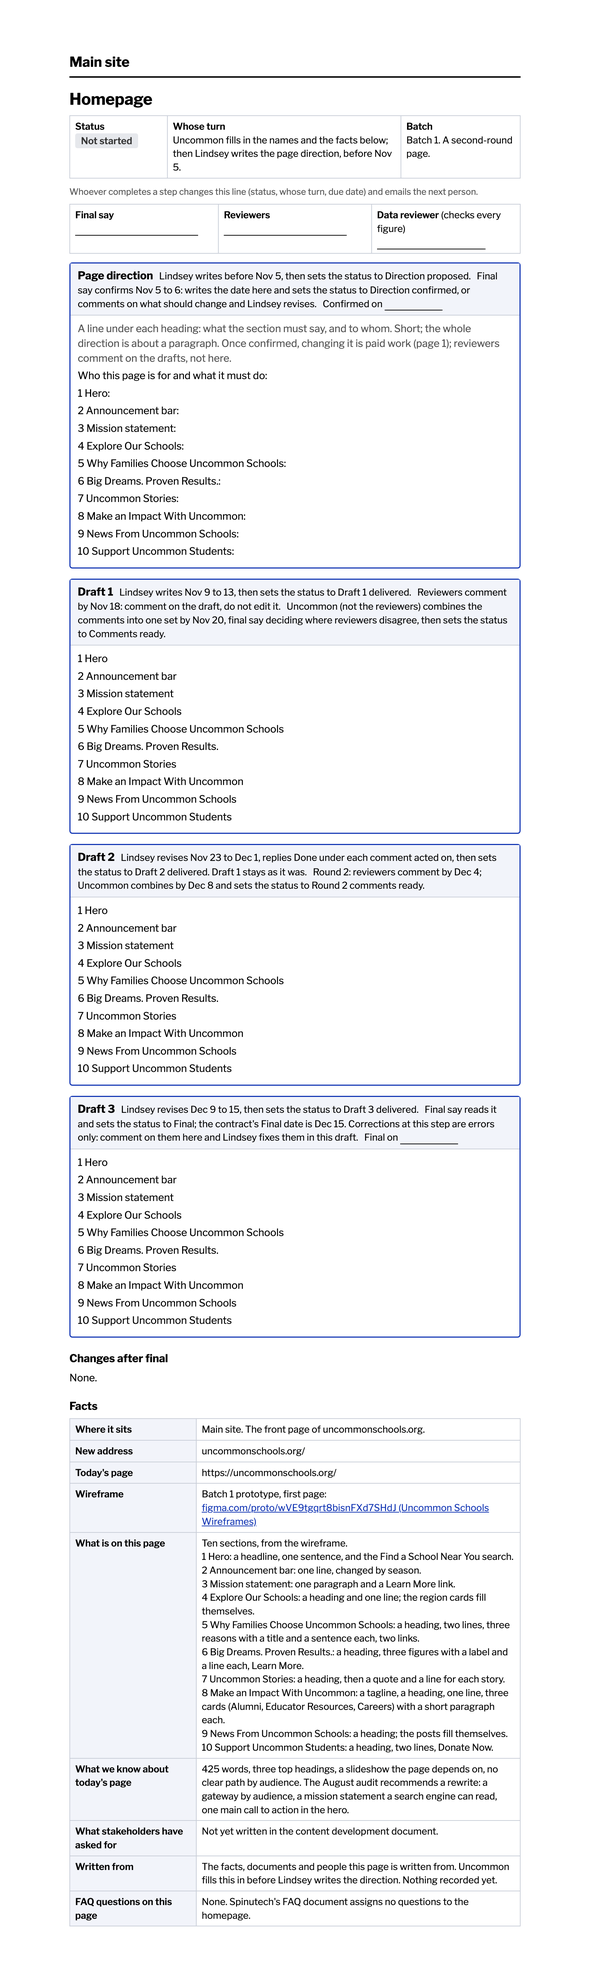
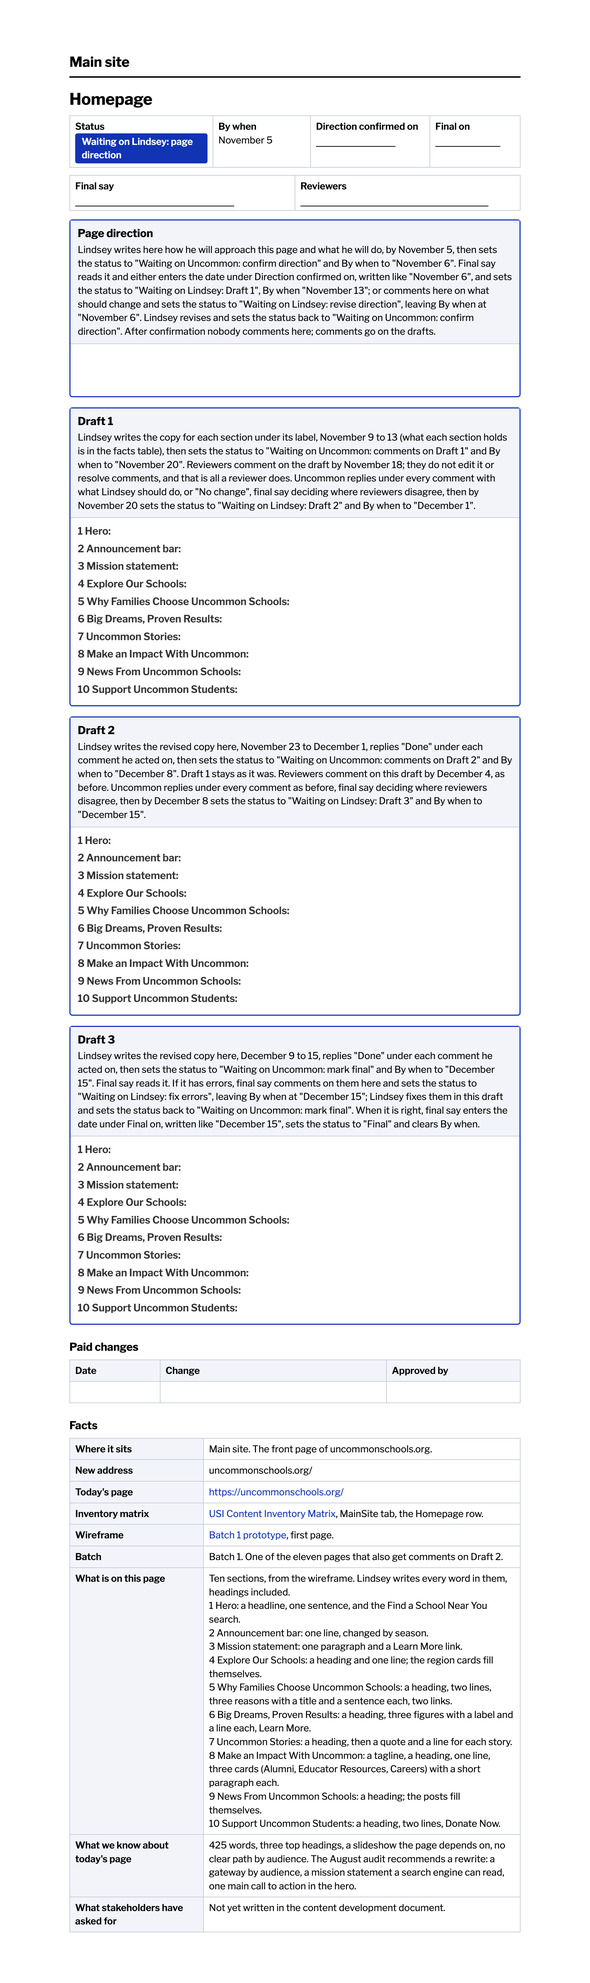
Content population v2: second-round design pictures after three reader walk-throughs

Changed region(s): [[0.125, 0.0622, 0.8438, 0.808], [0.3125, 0.7148, 0.8438, 0.9634], [0.125, 0.9013, 0.2812, 0.9634]]

diff --git a/website-redesign-2026/content-population-v2/design.html b/website-redesign-2026/content-population-v2/design.html
@@ -4,123 +4,119 @@
 @font-face{font-family:LF;src:url(/tmp/cpd/fonts/jizOREVItHgc8qDIbSTKq4XkRg8T88bjFuXOnduhHMWUBw.ttf);font-weight:500}
 @font-face{font-family:LF;src:url(/tmp/cpd/fonts/jizOREVItHgc8qDIbSTKq4XkRg8T88bjFuXOnduh8MKUBw.ttf);font-weight:600}
 @font-face{font-family:LF;src:url(/tmp/cpd/fonts/jizOREVItHgc8qDIbSTKq4XkRg8T88bjFuXOnduhycKUBw.ttf);font-weight:700}
-@font-face{font-family:LF;src:url(/tmp/cpd/fonts/jizMREVItHgc8qDIbSTKq4XkRiUawTk7f45UM9y05oZ8RNDM.ttf);font-weight:400;font-style:italic}
 body{margin:0;background:#fff;font-family:LF;font-size:14px;line-height:1.45;color:#000}
 .page{width:816px;box-sizing:border-box;padding:72px 96px;background:#fff}
 h1{font-size:22px;font-weight:700;margin:0 0 2px}
 .sub{color:#555;margin:0 0 18px}
 h2{font-size:17px;font-weight:700;margin:22px 0 6px}
-h3{font-size:15px;font-weight:700;margin:18px 0 6px}
+h3{font-size:15px;font-weight:700;margin:20px 0 6px}
 p{margin:0 0 8px}
 table{border-collapse:collapse;width:100%;margin:6px 0 10px;font-size:13px}
 td,th{border:1px solid #C9CED8;padding:5px 7px;vertical-align:top;text-align:left}
 th{background:#F2F4FA;font-weight:600}
-.facts td:first-child{width:160px;font-weight:600;background:#F2F4FA}
-.st{display:inline-block;padding:1px 8px;border-radius:3px;font-weight:600;white-space:nowrap}
+.facts td:first-child{width:170px;font-weight:600;background:#F2F4FA}
+.st{display:inline-block;padding:2px 9px;border-radius:3px;font-weight:600}
 .grey{background:#E6E8EC;color:#333}.blue{background:#1034B3;color:#fff}.yellow{background:#FBAE40;color:#000}.green{background:#2E7D32;color:#fff}
 .box{border:1.5px solid #1034B3;border-radius:4px;margin:12px 0 14px}
-.box .hd{background:#F2F4FA;border-bottom:1px solid #C9CED8;padding:6px 10px;font-size:13px}
-.box .hd b{font-size:15px}
-.box .bd{padding:8px 10px;min-height:40px}
+.box .hd{background:#F2F4FA;border-bottom:1px solid #C9CED8;padding:7px 10px;font-size:13px}
+.box .hd b{font-size:15px;display:block;margin-bottom:2px}
+.box .bd{padding:8px 10px;min-height:56px}
 .box .bd p{margin:0 0 4px}
 .blank{display:inline-block;min-width:150px;border-bottom:1px solid #000;height:14px;vertical-align:bottom}
-.muted{color:#555}
-ol,ul{margin:0 0 8px 22px;padding:0}
-li{margin:0 0 3px}
-.statustbl td{background:#fff}.statustbl td b{font-weight:600}
-.status b{font-weight:600}
+ul{margin:0 0 8px 22px;padding:0}
+li{margin:0 0 4px}
+.top td{background:#fff}.top td b{font-weight:600}
+.lab{font-weight:600;color:#333}
+.stl td{padding:3px 7px}
 .secthead{font-size:19px;font-weight:700;margin:0 0 14px;padding-bottom:6px;border-bottom:2px solid #000}
 .sm{font-size:12px}
-</style></head><body>
-
-<!-- ============ PAGE 1 ============ -->
-<div class="page" id="p1">
+a{color:#1034B3}
+</style></head><body><div class="page" id="p1">
 <h1>Website Redesign: Content Population Document</h1>
 <p class="sub">Main site. Test version: the homepage. November 2026.</p>
 
-<p>Every page of the new website has an entry in this document: the page's direction, its drafts, the comments on them and the facts it is written from, in the order the work happens. Find your page on the board below. Its colour says whose turn it is; the entry's top line says what to do and by when.</p>
+<p>Every page of the new main site has an entry in this document, with its direction, its drafts and the comments on them in the order the work happens. Find your page on the board below. The colour says whose side the page is waiting on. Open the entry; the header of each box says who writes there, by when, and what to set when done.</p>
 
 <h2>Status board</h2>
 <table>
-<tr><th style="width:150px">Page</th><th style="width:50px">Batch</th><th style="width:150px">Status</th><th>Whose turn</th><th style="width:100px">Due</th></tr>
-<tr><td>Homepage</td><td>1</td><td><span class="st grey">Not started</span></td><td>Uncommon fills in the names and the facts; then Lindsey writes the page direction</td><td>Before Nov 5</td></tr>
+<tr><th style="width:170px">Page</th><th>Status</th><th style="width:130px">By when</th></tr>
+<tr><td>Homepage</td><td><span class="st blue">Waiting on Lindsey: page direction</span></td><td>November 5</td></tr>
 </table>
-<p class="sm"><span class="st grey">Grey</span>&nbsp; not started &nbsp;&nbsp; <span class="st blue">Blue</span>&nbsp; Lindsey's turn &nbsp;&nbsp; <span class="st yellow">Yellow</span>&nbsp; Uncommon's turn &nbsp;&nbsp; <span class="st green">Green</span>&nbsp; final. &nbsp;Whoever completes a step changes the status line at the top of the entry and emails the next person; Uncommon keeps this board matching the entries.</p>
+<p class="sm">The status line at the top of each entry is the one that is changed; Uncommon keeps this board matching the entries.</p>
 
-<h2>The five steps</h2>
-<table>
-<tr><th style="width:62px">Step</th><th style="width:80px">Who</th><th>What you do</th><th style="width:78px">How long</th><th style="width:118px">Status you set</th></tr>
-<tr><td>1 Direction</td><td>Lindsey, then the person with final say</td><td>Lindsey writes the page direction in the entry's direction box before the batch's direction window. The person with final say writes Confirmed and the date on the box, or comments on what should change; Lindsey revises and they confirm.</td><td>Two business days to confirm</td><td><span class="st yellow">Direction proposed</span><br><span class="st blue">Direction confirmed</span></td></tr>
-<tr><td>2 Draft 1</td><td>Lindsey</td><td>Writes the page in the Draft 1 box, section by section, to the confirmed direction.</td><td>The batch's writing window</td><td><span class="st yellow">Draft 1 delivered</span></td></tr>
-<tr><td>3 Comments</td><td>Reviewers, then Uncommon</td><td>Reviewers comment on the Draft 1 box; nobody edits it. Uncommon then combines the comments into one set: a reply under each saying what Lindsey should do, the ones not acted on closed, disagreements decided by the person with final say.</td><td>Five business days: three for comments, two to combine them</td><td><span class="st blue">Comments ready</span></td></tr>
-<tr><td>4 Draft 2</td><td>Lindsey</td><td>Writes the revised page in the Draft 2 box and replies Done under each comment acted on. Draft 1 stays as it was.</td><td>Five business days</td><td><span class="st yellow">Draft 2 delivered</span></td></tr>
-<tr><td>5 Final</td><td>The person with final say</td><td>Reads the last draft and marks the page Final, with the date. Corrections at this step are errors only, fixed by Lindsey in that draft. On the 26 second-round pages, steps 3 and 4 repeat once on Draft 2 first (Round 2 comments ready, then Draft 3 delivered).</td><td>Two business days</td><td><span class="st green">Final</span><br><span class="sm muted">Second-round pages first:</span><br><span class="st blue">Round 2 comments ready</span><br><span class="st yellow">Draft 3 delivered</span></td></tr>
+<h2>The statuses, in order</h2>
+<table class="stl sm">
+<tr><td style="width:50%"><span class="st grey">Not started</span></td><td><span class="st blue">Waiting on Lindsey: Draft 2</span></td></tr>
+<tr><td><span class="st blue">Waiting on Lindsey: page direction</span></td><td><span class="st yellow">Waiting on Uncommon: comments on Draft 2</span> &nbsp;(eleven pages)</td></tr>
+<tr><td><span class="st yellow">Waiting on Uncommon: confirm direction</span></td><td><span class="st blue">Waiting on Lindsey: Draft 3</span> &nbsp;(eleven pages)</td></tr>
+<tr><td><span class="st blue">Waiting on Lindsey: revise direction</span> &nbsp;(if asked)</td><td><span class="st yellow">Waiting on Uncommon: mark final</span></td></tr>
+<tr><td><span class="st blue">Waiting on Lindsey: Draft 1</span></td><td><span class="st blue">Waiting on Lindsey: fix errors</span> &nbsp;(if any)</td></tr>
+<tr><td><span class="st yellow">Waiting on Uncommon: comments on Draft 1</span></td><td><span class="st green">Final</span></td></tr>
 </table>
+<p class="sm">Blue, Lindsey's turn. Yellow, Uncommon's turn. Green, final. Grey, not started.</p>
 
 <h2>Rules</h2>
 <ul>
-<li><b>Comment, do not edit.</b> Comments go on the draft box. If a fact in the facts table is wrong, comment on that too. Nobody resolves a comment until the page is Final. Lindsey changes nothing until the status says Comments ready.</li>
-<li><b>Figures.</b> The data reviewer, <span class="blank"></span>, checks every figure in the same three comment days.</li>
-<li><b>A draft that does not follow the confirmed direction</b> goes back to Lindsey to rewrite at no charge. That is not a round.</li>
-<li><b>Changes cost money.</b> After a direction is confirmed or a page is Final, a change is paid work: $100 an hour from the 50 pre-authorized hours, approved in advance by <span class="blank"></span>, and recorded under Changes after final in the entry.</li>
-<li><b>The 26 pages with a second round.</b> Main site: Homepage; Find a School; Enroll Now; About; Mission; Why Uncommon; Our Results; Student Experience; Careers; Working at Uncommon; Support Uncommon. Each regional site: the region home page; About the region; Enrollment. Every other page gets step 5 straight after Draft 2.</li>
-<li><b>Regional pages</b> are written once, for New York City, and adapted for the other four regions in the same window.</li>
+<li><b>Comment, do not edit.</b> Comments go on the draft. If a fact in the facts table is wrong, comment on it there. Nobody resolves a comment until the page is final; Uncommon resolves them after that.</li>
+<li><b>Final say decides.</b> Uncommon names the person with final say and the reviewers for each page before its direction is due. Where reviewers disagree, final say decides. Final say also judges whether a draft follows the confirmed direction; one that does not goes back to Lindsey at no charge, and that is not a round: final say says so in a comment and sets the status back to the draft he was writing.</li>
+<li><b>Lindsey works from the replies.</b> Uncommon answers every comment on a draft with what Lindsey should do, or "No change". Lindsey changes nothing until the status says the page is waiting on him.</li>
+<li><b>Changes cost money.</b> Changing a direction after it is confirmed, or changing a page after it is final, is paid work: $100 an hour from the 50 pre-authorized hours, approved in advance by <span class="blank"></span>, and recorded by Uncommon in the Paid changes table of the entry. Comments in a round are not changes.</li>
+<li><b>Eleven pages get a second round of comments:</b> Homepage; Find a School; Enroll Now; About; Mission; Why Uncommon; Our Results; Student Experience; Careers; Working at Uncommon; Support Uncommon. Every other page goes from Draft 2 to final say marking it final.</li>
 </ul>
 
-<h2>The schedule</h2>
-<p class="sm">Business days. Uncommon observes a half day on November 25, closure on November 26 and 27, and closure from a half day on December 18 through January 1. A window that spans the closure pauses and resumes January 4. A late direction or late comments from Uncommon move that batch's dates by the same number of days.</p>
+<h2>Schedule for the main site pages</h2>
+<p class="sm">Business days. Uncommon observes a half day on November 25, closure on November 26 and 27, and closure from a half day on December 18 through January 1. A window that spans the closure pauses and resumes January 4. A late direction or late comments from Uncommon move that batch's dates by the same number of days. Regional pages run in their own documents.</p>
 <table class="sm">
-<tr><th>Batch</th><th>Pages</th><th>Direction</th><th>Written</th><th>Round 1 comments</th><th>Revised</th><th>Round 2 / Confirm</th><th>Final</th></tr>
-<tr><td>1</td><td>Main site anchor pages (15)</td><td>Nov 5 to 6</td><td>Nov 9 to 13</td><td>Nov 16 to 20</td><td>Nov 23 to Dec 1</td><td>Round 2: Dec 2 to 8</td><td>Dec 15</td></tr>
-<tr><td>2</td><td>Regional anchor pages (40)</td><td>Nov 12 to 13</td><td>Nov 16 to 20</td><td>Nov 23 to Dec 1</td><td>Dec 2 to 8</td><td>Round 2: Dec 9 to 15</td><td>Jan 8</td></tr>
-<tr><td>3</td><td>Main site section pages (33)</td><td>Nov 19 to 20</td><td>Nov 23 to Dec 1</td><td>Dec 2 to 8</td><td>Dec 9 to 15</td><td>Confirm Dec 16 to 17</td><td>Dec 17</td></tr>
-<tr><td>4</td><td>Regional school listings and student experience (80)</td><td>Nov 23 to 24</td><td>Nov 30 to Dec 4</td><td>Dec 7 to 11</td><td>Dec 14 to 17</td><td>Confirm Jan 4 to 5</td><td>Jan 5</td></tr>
-<tr><td>5</td><td>Regional family, careers, news and compliance pages (about 70)</td><td>Dec 3 to 4</td><td>Dec 7 to 11</td><td>Dec 14 to 17</td><td>Jan 4 to 8</td><td>Confirm Jan 11 to 12</td><td>Jan 12</td></tr>
-<tr><td>6</td><td>School pages, the charter schools guide, the book pages and the legal pages (78)</td><td>Dec 16 to 17</td><td>Jan 4 to 13</td><td>Jan 14 to 20</td><td>Jan 21 to 27</td><td>None</td><td>Jan 28</td></tr>
+<tr><th>Batch</th><th>Pages</th><th>Direction confirmed</th><th>Draft 1</th><th>Comments on Draft 1</th><th>Draft 2</th><th>Comments on Draft 2, or final say's check</th><th>Final</th></tr>
+<tr><td>1</td><td>Anchor pages (15): Homepage; Find a School and its four grade-level pages; Enroll Now; About; Mission; Why Uncommon; Our Results; Student Experience; Careers; Working at Uncommon; Support Uncommon</td><td>Nov 5 to 6</td><td>Nov 9 to 13</td><td>Nov 16 to 20</td><td>Nov 23 to Dec 1</td><td>Comments Dec 2 to 8; Draft 3 Dec 9 to 15</td><td>Dec 15</td></tr>
+<tr><td>3</td><td>Section pages (33): the careers pages, the results pages, Camp Uncommon, Our People, Alumni Spotlights, the news pages, the support pages, Learning &amp; Partnerships, the alumni pages, Contact</td><td>Nov 19 to 20</td><td>Nov 23 to Dec 1</td><td>Dec 2 to 8</td><td>Dec 9 to 15</td><td>Final say's check Dec 16 to 17</td><td>Dec 17</td></tr>
+<tr><td>6</td><td>Phase 2: the charter schools guide (8), the book pages (9), the legal pages (5)</td><td>Dec 16 to 17</td><td>Jan 4 to 13</td><td>Jan 14 to 20</td><td>Jan 21 to 27</td><td>None</td><td>Jan 28</td></tr>
 </table>
+<p class="sm">Batches 2, 4 and 5 are regional pages and sit in each region's document.</p>
 </div>
-
-<!-- ============ HOMEPAGE ENTRY ============ -->
 <div class="page" id="p2">
 <div class="secthead">Main site</div>
 <h1>Homepage</h1>
-<table class="statustbl"><tr><td style="width:120px"><b>Status</b><br><span class="st grey">Not started</span></td><td><b>Whose turn</b><br>Uncommon fills in the names and the facts below; then Lindsey writes the page direction, before Nov 5.</td><td style="width:150px"><b>Batch</b><br>Batch 1. A second-round page.</td></tr></table>
-<p class="sm muted">Whoever completes a step changes this line (status, whose turn, due date) and emails the next person.</p>
-<table class="statustbl"><tr><td style="width:33%"><b>Final say</b><br><span class="blank" style="min-width:170px"></span></td><td style="width:34%"><b>Reviewers</b><br><span class="blank" style="min-width:170px"></span></td><td><b>Data reviewer</b> (checks every figure)<br><span class="blank" style="min-width:150px"></span></td></tr></table>
+<table class="top"><tr><td><b>Status</b><br><span class="st blue">Waiting on Lindsey: page direction</span></td><td style="width:120px"><b>By when</b><br>November 5</td><td style="width:150px"><b>Direction confirmed on</b><br><span class="blank" style="min-width:110px"></span></td><td style="width:110px"><b>Final on</b><br><span class="blank" style="min-width:90px"></span></td></tr></table>
+<table class="top"><tr><td style="width:50%"><b>Final say</b><br><span class="blank" style="min-width:220px"></span></td><td><b>Reviewers</b><br><span class="blank" style="min-width:260px"></span></td></tr></table>
 
 <div class="box">
-<div class="hd"><b>Page direction</b> &nbsp; Lindsey writes before Nov 5, then sets the status to Direction proposed. &nbsp; Final say confirms Nov 5 to 6: writes the date here and sets the status to Direction confirmed, or comments on what should change and Lindsey revises. &nbsp; Confirmed on <span class="blank" style="min-width:80px"></span></div>
-<div class="bd">
-<p class="muted">A line under each heading: what the section must say, and to whom. Short; the whole direction is about a paragraph. Once confirmed, changing it is paid work (page 1); reviewers comment on the drafts, not here.</p>
-<p>Who this page is for and what it must do: </p>
-<p>1 Hero: </p><p>2 Announcement bar: </p><p>3 Mission statement: </p><p>4 Explore Our Schools: </p><p>5 Why Families Choose Uncommon Schools: </p><p>6 Big Dreams. Proven Results.: </p><p>7 Uncommon Stories: </p><p>8 Make an Impact With Uncommon: </p><p>9 News From Uncommon Schools: </p><p>10 Support Uncommon Students: </p></div></div>
+<div class="hd"><b>Page direction</b>
+Lindsey writes here how he will approach this page and what he will do, by November 5, then sets the status to "Waiting on Uncommon: confirm direction" and By when to "November 6". Final say reads it and either enters the date under Direction confirmed on, written like "November 6", and sets the status to "Waiting on Lindsey: Draft 1", By when "November 13"; or comments here on what should change and sets the status to "Waiting on Lindsey: revise direction", leaving By when at "November 6". Lindsey revises and sets the status back to "Waiting on Uncommon: confirm direction". After confirmation nobody comments here; comments go on the drafts.</div>
+<div class="bd"></div></div>
 
 <div class="box">
-<div class="hd"><b>Draft 1</b> &nbsp; Lindsey writes Nov 9 to 13, then sets the status to Draft 1 delivered. &nbsp; Reviewers comment by Nov 18: comment on the draft, do not edit it. &nbsp; Uncommon (not the reviewers) combines the comments into one set by Nov 20, final say deciding where reviewers disagree, then sets the status to Comments ready.</div>
-<div class="bd"><p>1 Hero</p><p>2 Announcement bar</p><p>3 Mission statement</p><p>4 Explore Our Schools</p><p>5 Why Families Choose Uncommon Schools</p><p>6 Big Dreams. Proven Results.</p><p>7 Uncommon Stories</p><p>8 Make an Impact With Uncommon</p><p>9 News From Uncommon Schools</p><p>10 Support Uncommon Students</p></div></div>
+<div class="hd"><b>Draft 1</b>
+Lindsey writes the copy for each section under its label, November 9 to 13 (what each section holds is in the facts table), then sets the status to "Waiting on Uncommon: comments on Draft 1" and By when to "November 20". Reviewers comment on the draft by November 18; they do not edit it or resolve comments, and that is all a reviewer does. Uncommon replies under every comment with what Lindsey should do, or "No change", final say deciding where reviewers disagree, then by November 20 sets the status to "Waiting on Lindsey: Draft 2" and By when to "December 1".</div>
+<div class="bd"><p><span class="lab">1 Hero:</span></p><p><span class="lab">2 Announcement bar:</span></p><p><span class="lab">3 Mission statement:</span></p><p><span class="lab">4 Explore Our Schools:</span></p><p><span class="lab">5 Why Families Choose Uncommon Schools:</span></p><p><span class="lab">6 Big Dreams, Proven Results:</span></p><p><span class="lab">7 Uncommon Stories:</span></p><p><span class="lab">8 Make an Impact With Uncommon:</span></p><p><span class="lab">9 News From Uncommon Schools:</span></p><p><span class="lab">10 Support Uncommon Students:</span></p></div></div>
 
 <div class="box">
-<div class="hd"><b>Draft 2</b> &nbsp; Lindsey revises Nov 23 to Dec 1, replies Done under each comment acted on, then sets the status to Draft 2 delivered. Draft 1 stays as it was. &nbsp; Round 2: reviewers comment by Dec 4; Uncommon combines by Dec 8 and sets the status to Round 2 comments ready.</div>
-<div class="bd"><p>1 Hero</p><p>2 Announcement bar</p><p>3 Mission statement</p><p>4 Explore Our Schools</p><p>5 Why Families Choose Uncommon Schools</p><p>6 Big Dreams. Proven Results.</p><p>7 Uncommon Stories</p><p>8 Make an Impact With Uncommon</p><p>9 News From Uncommon Schools</p><p>10 Support Uncommon Students</p></div></div>
+<div class="hd"><b>Draft 2</b>
+Lindsey writes the revised copy here, November 23 to December 1, replies "Done" under each comment he acted on, then sets the status to "Waiting on Uncommon: comments on Draft 2" and By when to "December 8". Draft 1 stays as it was. Reviewers comment on this draft by December 4, as before. Uncommon replies under every comment as before, final say deciding where reviewers disagree, then by December 8 sets the status to "Waiting on Lindsey: Draft 3" and By when to "December 15".</div>
+<div class="bd"><p><span class="lab">1 Hero:</span></p><p><span class="lab">2 Announcement bar:</span></p><p><span class="lab">3 Mission statement:</span></p><p><span class="lab">4 Explore Our Schools:</span></p><p><span class="lab">5 Why Families Choose Uncommon Schools:</span></p><p><span class="lab">6 Big Dreams, Proven Results:</span></p><p><span class="lab">7 Uncommon Stories:</span></p><p><span class="lab">8 Make an Impact With Uncommon:</span></p><p><span class="lab">9 News From Uncommon Schools:</span></p><p><span class="lab">10 Support Uncommon Students:</span></p></div></div>
 
 <div class="box">
-<div class="hd"><b>Draft 3</b> &nbsp; Lindsey revises Dec 9 to 15, then sets the status to Draft 3 delivered. &nbsp; Final say reads it and sets the status to Final; the contract's Final date is Dec 15. Corrections at this step are errors only: comment on them here and Lindsey fixes them in this draft. &nbsp; Final on <span class="blank" style="min-width:80px"></span></div>
-<div class="bd"><p>1 Hero</p><p>2 Announcement bar</p><p>3 Mission statement</p><p>4 Explore Our Schools</p><p>5 Why Families Choose Uncommon Schools</p><p>6 Big Dreams. Proven Results.</p><p>7 Uncommon Stories</p><p>8 Make an Impact With Uncommon</p><p>9 News From Uncommon Schools</p><p>10 Support Uncommon Students</p></div></div>
+<div class="hd"><b>Draft 3</b>
+Lindsey writes the revised copy here, December 9 to 15, replies "Done" under each comment he acted on, then sets the status to "Waiting on Uncommon: mark final" and By when to "December 15". Final say reads it. If it has errors, final say comments on them here and sets the status to "Waiting on Lindsey: fix errors", leaving By when at "December 15"; Lindsey fixes them in this draft and sets the status back to "Waiting on Uncommon: mark final". When it is right, final say enters the date under Final on, written like "December 15", sets the status to "Final" and clears By when.</div>
+<div class="bd"><p><span class="lab">1 Hero:</span></p><p><span class="lab">2 Announcement bar:</span></p><p><span class="lab">3 Mission statement:</span></p><p><span class="lab">4 Explore Our Schools:</span></p><p><span class="lab">5 Why Families Choose Uncommon Schools:</span></p><p><span class="lab">6 Big Dreams, Proven Results:</span></p><p><span class="lab">7 Uncommon Stories:</span></p><p><span class="lab">8 Make an Impact With Uncommon:</span></p><p><span class="lab">9 News From Uncommon Schools:</span></p><p><span class="lab">10 Support Uncommon Students:</span></p></div></div>
 
-<h3>Changes after final</h3>
-<p>None.</p>
+<h3>Paid changes</h3>
+<table>
+<tr><th style="width:110px">Date</th><th>Change</th><th style="width:170px">Approved by</th></tr>
+<tr><td>&nbsp;</td><td></td><td></td></tr>
+</table>
 
 <h3>Facts</h3>
 <table class="facts">
 <tr><td>Where it sits</td><td>Main site. The front page of uncommonschools.org.</td></tr>
 <tr><td>New address</td><td>uncommonschools.org/</td></tr>
-<tr><td>Today's page</td><td>https://uncommonschools.org/</td></tr>
-<tr><td>Wireframe</td><td>Batch 1 prototype, first page: <span style="color:#1034B3;text-decoration:underline">figma.com/proto/wVE9tgqrt8bisnFXd7SHdJ (Uncommon Schools Wireframes)</span></td></tr>
-<tr><td>What is on this page</td><td>Ten sections, from the wireframe.<br>1 Hero: a headline, one sentence, and the Find a School Near You search.<br>2 Announcement bar: one line, changed by season.<br>3 Mission statement: one paragraph and a Learn More link.<br>4 Explore Our Schools: a heading and one line; the region cards fill themselves.<br>5 Why Families Choose Uncommon Schools: a heading, two lines, three reasons with a title and a sentence each, two links.<br>6 Big Dreams. Proven Results.: a heading, three figures with a label and a line each, Learn More.<br>7 Uncommon Stories: a heading, then a quote and a line for each story.<br>8 Make an Impact With Uncommon: a tagline, a heading, one line, three cards (Alumni, Educator Resources, Careers) with a short paragraph each.<br>9 News From Uncommon Schools: a heading; the posts fill themselves.<br>10 Support Uncommon Students: a heading, two lines, Donate Now.</td></tr>
+<tr><td>Today's page</td><td><a>https://uncommonschools.org/</a></td></tr>
+<tr><td>Inventory matrix</td><td><a>USI Content Inventory Matrix</a>, MainSite tab, the Homepage row.</td></tr>
+<tr><td>Wireframe</td><td><a>Batch 1 prototype</a>, first page.</td></tr>
+<tr><td>Batch</td><td>Batch 1. One of the eleven pages that also get comments on Draft 2.</td></tr>
+<tr><td>What is on this page</td><td>Ten sections, from the wireframe. Lindsey writes every word in them, headings included.<br>1 Hero: a headline, one sentence, and the Find a School Near You search.<br>2 Announcement bar: one line, changed by season.<br>3 Mission statement: one paragraph and a Learn More link.<br>4 Explore Our Schools: a heading and one line; the region cards fill themselves.<br>5 Why Families Choose Uncommon Schools: a heading, two lines, three reasons with a title and a sentence each, two links.<br>6 Big Dreams, Proven Results: a heading, three figures with a label and a line each, Learn More.<br>7 Uncommon Stories: a heading, then a quote and a line for each story.<br>8 Make an Impact With Uncommon: a tagline, a heading, one line, three cards (Alumni, Educator Resources, Careers) with a short paragraph each.<br>9 News From Uncommon Schools: a heading; the posts fill themselves.<br>10 Support Uncommon Students: a heading, two lines, Donate Now.</td></tr>
 <tr><td>What we know about today's page</td><td>425 words, three top headings, a slideshow the page depends on, no clear path by audience. The August audit recommends a rewrite: a gateway by audience, a mission statement a search engine can read, one main call to action in the hero.</td></tr>
 <tr><td>What stakeholders have asked for</td><td>Not yet written in the content development document.</td></tr>
-<tr><td>Written from</td><td>The facts, documents and people this page is written from. Uncommon fills this in before Lindsey writes the direction. Nothing recorded yet.</td></tr>
-<tr><td>FAQ questions on this page</td><td>None. Spinutech's FAQ document assigns no questions to the homepage.</td></tr>
 </table>
 </div>
 </body></html>

diff --git a/website-redesign-2026/content-population-v2/walkthrough-notes.md b/website-redesign-2026/content-population-v2/walkthrough-notes.md
@@ -1,0 +1,9 @@
+Own walkthrough of the second-round design, 2026-11-09, before the sub agent.
+Lindsey, Nov 4: board blue, waiting on him, by Nov 5; entry top same; direction header says write approach here, then set status to "Waiting on Uncommon: confirm direction". Stuck: final say name blank until Uncommon fills it (by design). Status colour: who changes it? Fixed in legend (whoever changes the status matches the colour and writes By when). Proposal to Anthony: a Google Docs dropdown chip for the status would remove the hand colouring.
+Final say, Nov 5 to 6: board yellow; direction header says read, write "Confirmed" and date at the end, set status to "Waiting on Lindsey: Draft 1"; or comment and reconfirm. OK.
+Lindsey, Nov 9 to 13: Draft 1 header, sections with colons, set status. OK.
+Reviewer, Nov 16: board yellow "comments on Draft 1" by Nov 18; Draft 1 header: comment, do not edit, by Nov 18; direction above says it is fixed, comment on drafts. Reviewers row shows the others. OK.
+Final say, Nov 19 to 20: Draft 1 header says final say decides where reviewers disagree, before Nov 20. OK.
+Lindsey, Nov 23 to Dec 1: status waiting on him for Draft 2; Draft 2 header says write, "Done" replies, set status. OK. Round 2 reviewers by Dec 4, combine by Dec 8. OK.
+Lindsey Dec 9 to 15 Draft 3; final say reads, comments errors, writes "Final" and date, sets "Final". Contract gap: both on Dec 15 (told to Anthony).
+Name check page 1 vs entry: statuses quoted identically; rule "waiting on him" matches status wording; schedule columns use the box names; no Draft 3 column (contract has none; dates in the header).
